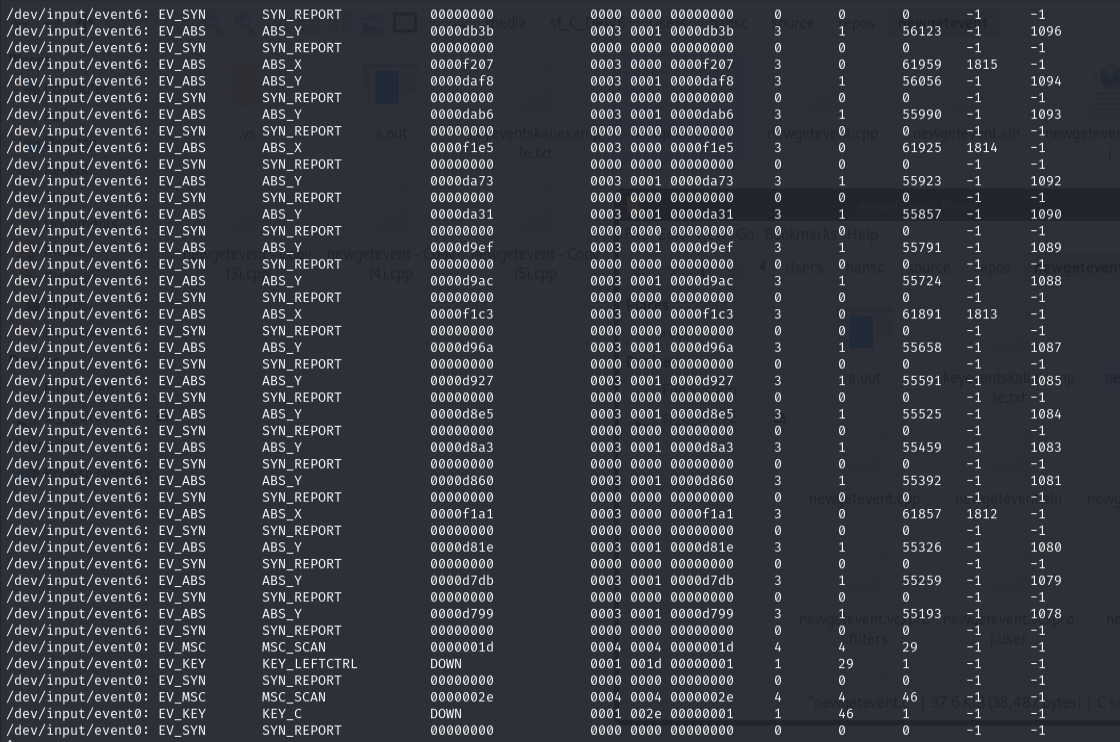
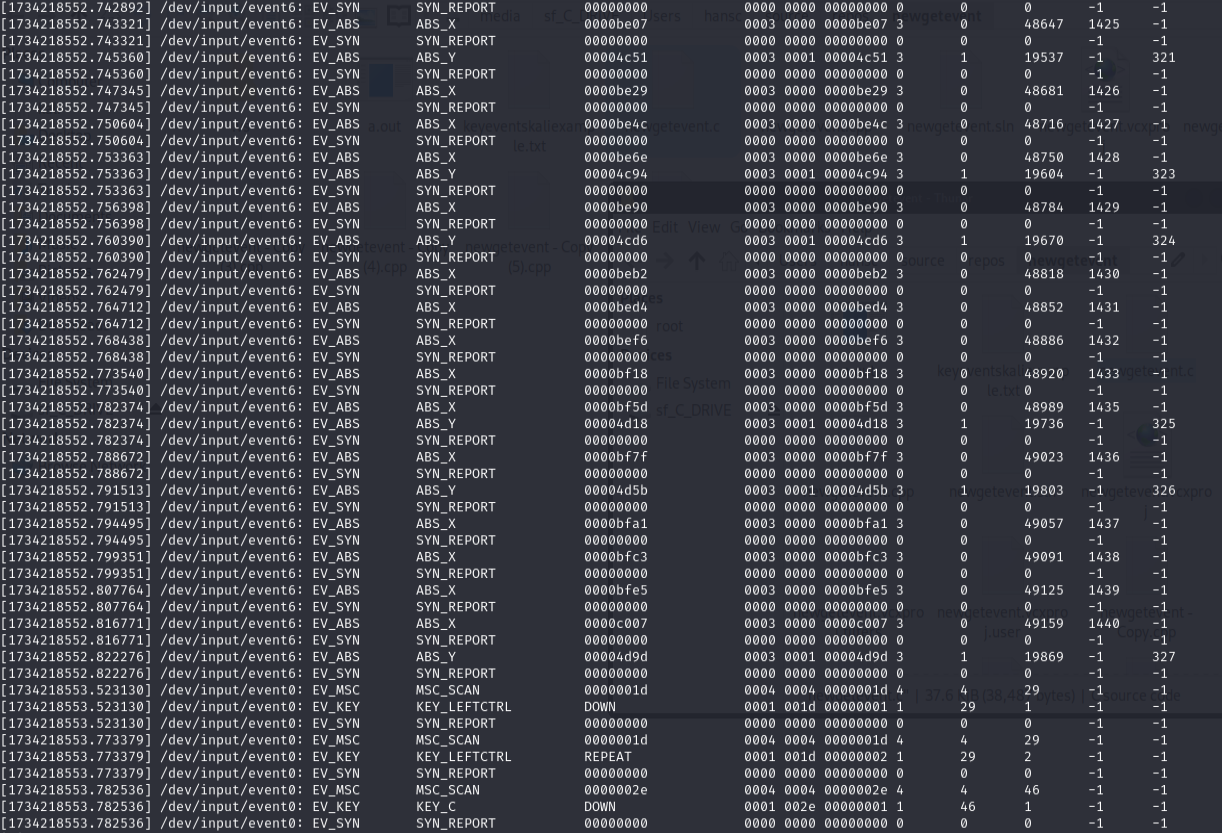
q

diff --git a/geteventall.cpp b/geteventall.cpp
@@ -1187,7 +1187,7 @@ int main(int argc, char *argv[])
     int i;
     int res;
     int pollres;
-    int get_time = 0;
+    int get_time = 1;
     int print_device = 0;
     char _newline = '\n';
     char *newline = &_newline;

diff --git a/README.md b/README.md
@@ -13,7 +13,7 @@ g++ -std=c++2a -O3 -g0 ./geteventall.cpp
 
 ## run it 
 ```sh 
-./a.out 1920 1280  # exe screen_width screen_height
+./a.out 1920 1080  # exe screen_width screen_height
 ```
 
 
